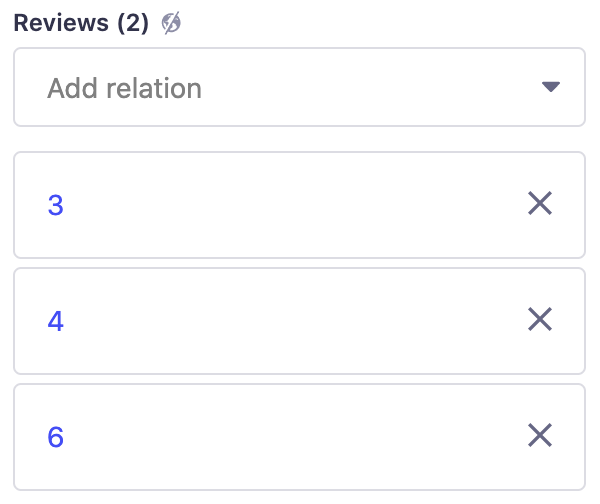
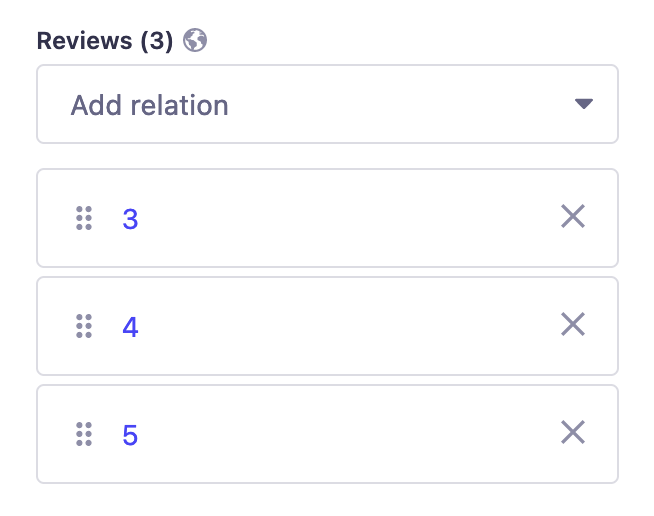
Relations reordering: User Guide updates (#1322)
* Replace minus icon by cross icon in "Managing Relational Fields"

* Replace screenshot to show drag button

* Add instructions to move an entry

* Fix typo in title

* Update reordering instructions & screenshots for DZs

* Add the keyboard reordering tip

diff --git a/docs/user-docs/latest/content-manager/managing-relational-fields.md b/docs/user-docs/latest/content-manager/managing-relational-fields.md
@@ -54,7 +54,7 @@ You can click on the name of the selected entry to be redirected to the edit vie
 
 To remove the entry selected in the drop-down list, click on the delete button ![Clear icon](../assets/icons/clear.svg).
 
-## Managing multiple-choices relational fields
+## Managing multiple-choice relational fields
 
 Many-to-many, one-to-many, and many-ways types of relation allow to choose several entries per relational field.
 
@@ -70,4 +70,6 @@ To select the relevant relational field's entries:
 All selected entries are listed right below the drop-down list. Click on the name of an entry to be redirected to the edit view of the relational field's content-type. Make sure you save your page first, to avoid losing your last modifications.
 :::
 
-To remove an entry, click on the remove button ![Minus icon](../assets/icons/minus.svg) in the selected entries list.
+To remove an entry, click on the cross button ![Cross icon](../assets/icons/cross.svg) in the selected entries list.
+
+Entries from multiple-choice relational fields can be reordered, indicated by a drag button ![Drag icon](../assets/icons/drag.svg). To move an entry, click and hold it, drag it to the desired position, then release it.

diff --git a/docs/user-docs/latest/content-manager/writing-content.md b/docs/user-docs/latest/content-manager/writing-content.md
@@ -90,8 +90,12 @@ Dynamic zones are a combination of components, which themselves are composed of 
 
 Dynamic zones' components can also be reordered or deleted directly in the edit view, using buttons displayed in the top right corner of the component area.
 
-- Use the arrow buttons ![Up icon](../assets/icons/up2.svg) ![Down icon](../assets/icons/down2.svg) to reorder components in your dynamic zone.
+- Use the drag & drop button ![Drag icon](../assets/icons/drag.svg) to reorder components in your dynamic zone.
 - Use the delete button ![Delete icon](../assets/icons/delete.svg) to delete a component from your dynamic zone.
+
+:::tip
+You can also use the keyboard to reorder components: focus the component using Tab, press Space on the drag & drop button ![Drag icon](../assets/icons/drag.svg) and use the arrow keys to then re-order, pressing Space again to drop the item.
+:::
 
 ::: note
 Unlike regular fields, the order of the fields and components inside a dynamic field is important. It should correspond exactly to how end users will read/see the content.
